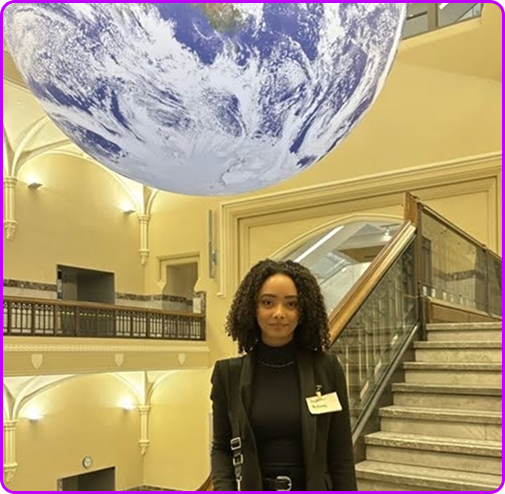
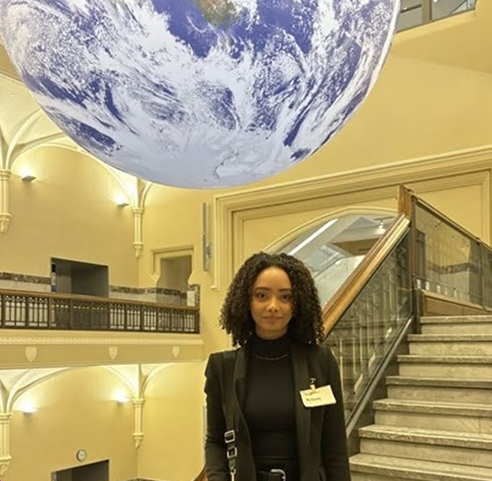
fixing about me image styling and rewording paragraph

Changed region(s): [[0.0, 0.0, 1.0, 1.0], [0.4573, 0.3119, 0.4878, 0.343]]

diff --git a/src/components/about-me/AboutMe.tsx b/src/components/about-me/AboutMe.tsx
@@ -26,8 +26,8 @@ export default function AboutMe() {
             I love learning new things and am currently orbiting between school,
             side projects, and co-op terms.
             <br /><br />
-            I have real-world software development experience in app design, Angular,
-            Microsoft apps, and Googling error messages at light speed.
+            I have real-world software development experience in UI design, Angular,
+            Microsoft Power Platform, and Googling error messages at light speed.
             <br /><br />
             When I'm not coding, I'm probably redesigning something that didn't
             ask to be redesigned, or discussing the effects of entering a

diff --git a/src/components/about-me/AboutMe.css b/src/components/about-me/AboutMe.css
@@ -24,7 +24,7 @@
   flex: 1;
   display: flex;
   justify-content: center;
-  margin-top: 150px;
+  margin-top: 90px;
 }
 
 .about-image {
@@ -34,9 +34,15 @@
   background-image: var(--color-img);
   background-size: cover;
   background-position: center;
-  border: 2px solid #bf00ff;
+  border: 3px solid var(--accent);
   filter: grayscale(100%);
   transition: filter 0.3s ease;
+}
+
+@media (max-width: 1024px) {
+  .about-image-wrapper {
+    margin-top: 150px;
+  }
 }
 
 .about-image:hover {
@@ -50,7 +56,7 @@
     flex-direction: column;
     text-align: center;
     align-items: center;
-    gap: 32px;
+    gap: 0px;
   }
 
   .about-text {
